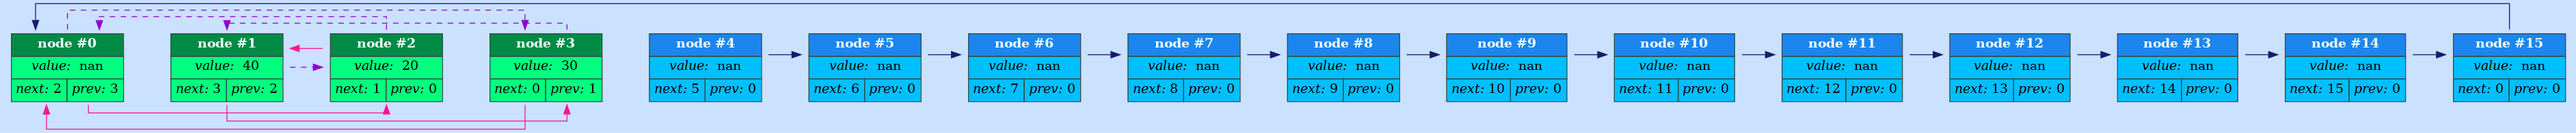
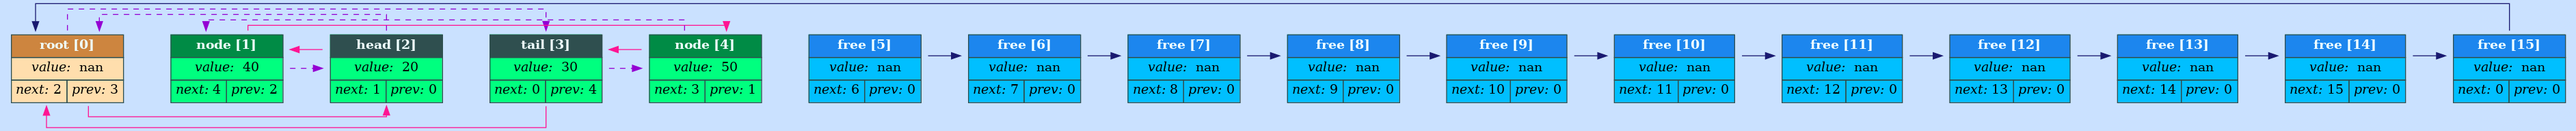
feat: html logs

diff --git a/logs.html b/logs.html
@@ -1,0 +1,10 @@
+<body style="background: midnightblue; color: lavender"><pre>
+<span style="color:dodgerblue">2022-10-28 18:25:12+0300</span>	[<span style="color:cyan">Info</span>]:	Started logging at 'HTML logs'
+<span style="color:dodgerblue">2022-10-28 18:25:12+0300</span>	[<span style="color:lightsteelblue">~trace~</span>]:	Dumping list: <h2>List not linearized:</h2><br/><img src="dump1.png" style="width: 130em"/><hr/>
+<span style="color:dodgerblue">2022-10-28 18:25:12+0300</span>	[<span style="color:lightsteelblue">~trace~</span>]:	Performing operation 'linearize(&list)' in 'int main():34', file: /home/meerkat/Documents/programming/compact_list/src/main.cpp
+<span style="color:dodgerblue">2022-10-28 18:25:12+0300</span>	[<span style="color:lightsteelblue">~trace~</span>]:	State before execution:
+<span style="color:dodgerblue">2022-10-28 18:25:12+0300</span>	[<span style="color:lightsteelblue">~trace~</span>]:	linearized=0
+<span style="color:dodgerblue">2022-10-28 18:25:12+0300</span>	[<span style="color:lightsteelblue">~trace~</span>]:	State after execution:
+<span style="color:dodgerblue">2022-10-28 18:25:12+0300</span>	[<span style="color:lightsteelblue">~trace~</span>]:	linearized=1
+<span style="color:dodgerblue">2022-10-28 18:25:12+0300</span>	[<span style="color:lightsteelblue">~trace~</span>]:	Dumping list: <h2>List linearized:</h2><br/><img src="dump2.png" style="width: 130em"/><hr/>
+</pre></body>

diff --git a/lib/list/list.cpp b/lib/list/list.cpp
@@ -20,10 +20,13 @@ static const element_t POISON     = NAN;
 #define NEXT_EDGE_COLOR "deeppink"
 #define PREV_EDGE_COLOR "darkviolet"
 #define FREE_EDGE_COLOR "midnightblue"
+#define ROOT_COLOR "navajowhite"
+#define ROOT_HEAD_COLOR "peru"
+#define SPEC_HEAD_COLOR "darkslategrey"
 
-#define NODE_FORMAT(bg, head) \
+#define NODE_FORMAT(name, bg, head) \
                         "<TABLE BORDER=\"0\" CELLBORDER=\"1\" CELLSPACING=\"0\" CELLPADDING=\"4\" BGCOLOR=\"" bg "\">\n"\
-                        "<TR><TD ALIGN=\"CENTER\" COLSPAN=\"2\" BGCOLOR=\"" head "\"><FONT COLOR=\"" HEAD_FONT_COLOR "\"><B>node #%zu</B></FONT></TD></TR>\n"\
+                        "<TR><TD ALIGN=\"CENTER\" COLSPAN=\"2\" BGCOLOR=\"" head "\"><FONT COLOR=\"" HEAD_FONT_COLOR "\"><B>" name " [%zu]</B></FONT></TD></TR>\n"\
                         "<TR><TD COLSPAN=\"2\"><I>value: </I> %lg</TD></TR>\n"\
                         "<TR><TD><I>next: </I>%zu</TD><TD><I>prev: </I>%zu</TD></TR>\n"\
                         "</TABLE>"
@@ -34,26 +37,6 @@ static void try_shrink_list(compact_list* list);
 static void try_grow_list(compact_list* list);
 static void resize_list(compact_list* list, size_t new_size);
 static void memswap(void* mem1, void* mem2, size_t mem_size);
-
-struct builder
-{
-    size_t number;
-    const compact_list* list;
-};
-
-struct factory
-{
-    const compact_list* list;
-    size_t number;
-};
-
-const size_t GETTER_SIG = 0xd1ab01ca1c0c0a5;
-
-union getter
-{
-    builder bld;
-    factory fac;
-};
 
 compact_list list_ctor(void)
 {
@@ -92,7 +75,7 @@ void list_dtor(compact_list* list)
 
 list_iterator list_begin(const compact_list* list)
 {
-    LOG_ASSERT(list != NULL, return 0);
+    LOG_ASSERT(list        != NULL, return 0);
     LOG_ASSERT(list->nodes != NULL, return 0);
     return list->nodes->next;
 }
@@ -106,7 +89,6 @@ list_iterator list_end(const compact_list* list)
 
 list_iterator next_element(const compact_list* list, const list_iterator iterator)
 {
-    LOG_ASSERT(iterator != 0, return 0);
     LOG_ASSERT(list != NULL, return 0);
     LOG_ASSERT(list->nodes != NULL, return 0);
     return list->nodes[iterator].next;
@@ -114,7 +96,6 @@ list_iterator next_element(const compact_list* list, const list_iterator iterato
 
 list_iterator prev_element(const compact_list* list, const list_iterator iterator)
 {
-    LOG_ASSERT(iterator != 0, return 0);
     LOG_ASSERT(list != NULL, return 0);
     LOG_ASSERT(list->nodes != NULL, return 0);
     return list->nodes[iterator].prev;
@@ -122,7 +103,6 @@ list_iterator prev_element(const compact_list* list, const list_iterator iterato
 
 list_iterator insert_after(compact_list* list, list_iterator iterator, element_t value)
 {
-    //LOG_ASSERT(iterator != 0, return 0);
     LOG_ASSERT(list != NULL, return 0);
     LOG_ASSERT(list->nodes != NULL, return 0);
 
@@ -159,7 +139,7 @@ list_iterator insert_before(compact_list* list, list_iterator iterator, element_
     list_iterator added = list->free;
     list_iterator prv = prev_element(list, iterator);
 
-    if(!(prv + 1 == added & added + 1 == cur))
+    if(!(prv + 1 == added && added + 1 == cur))
         list->is_linear = 0;
 
     list->free = next_element(list, list->free);
@@ -237,6 +217,9 @@ void pop_front(compact_list* list)
 
 void linearize(compact_list* list)
 {
+    if (list->is_linear)
+        return;
+
     size_t cnt = 1;
     for (list_iterator it = list_begin(list); it != 0; it = next_element(list, it), cnt++)
     {
@@ -269,6 +252,9 @@ void linearize(compact_list* list)
     }
 
     list->free = list->size + 1;
+    list->is_linear = 1;
+
+    try_shrink_list(list);
 }
 
 list_iterator element_by_number(const compact_list* list, size_t num)
@@ -324,15 +310,26 @@ void list_dump(compact_list* list, const char* filename)
     
     size_t *node_num = (size_t*) calloc(list->capacity, sizeof(*node_num));
 
-    for (size_t i = 0; i < list->capacity; i++)
+    node_num[0] = add_node(&builder,
+            "label=<"NODE_FORMAT("root", ROOT_COLOR, ROOT_HEAD_COLOR)">",
+            NODE_ARGS(0, list->nodes[0]));
+    for (size_t i = 1; i < list->capacity; i++)
     {
         if (list->nodes[i].is_free)
             node_num[i] = add_node(&builder,
-                "label=<"NODE_FORMAT(FREE_COLOR, FREE_HEAD_COLOR)">",
+                "label=<"NODE_FORMAT("free", FREE_COLOR, FREE_HEAD_COLOR)">",
+                NODE_ARGS(i, list->nodes[i]));
+        else if (i == list_begin(list))
+            node_num[i] = add_node(&builder,
+                "label=<"NODE_FORMAT("head", NODE_COLOR, SPEC_HEAD_COLOR)">",
+                NODE_ARGS(i, list->nodes[i]));
+        else if (i == list_end(list))
+            node_num[i] = add_node(&builder,
+                "label=<"NODE_FORMAT("tail", NODE_COLOR, SPEC_HEAD_COLOR)">",
                 NODE_ARGS(i, list->nodes[i]));
         else
             node_num[i] = add_node(&builder,
-                "label=<"NODE_FORMAT(NODE_COLOR, NODE_HEAD_COLOR)">",
+                "label=<"NODE_FORMAT("node", NODE_COLOR, NODE_HEAD_COLOR)">",
                 NODE_ARGS(i, list->nodes[i]));
     }
 
@@ -358,54 +355,6 @@ void list_dump(compact_list* list, const char* filename)
     free(node_num);
 }
 
-void* abstract_linked_list_iterator_object_getter_factory_builder_getter_get_builder(void* param1, void* param2)
-{
-    builder* result = (builder*)calloc(1, sizeof(*result));
-    *result = {
-        .number = (size_t)param2,
-        .list = (const compact_list*)param1
-    };
-    return (void*) result;
-}
-
-void* abstract_linked_list_iterator_object_getter_factory_builder_build_factory(void* param)
-{
-    builder* bld = (builder*) param;
-    const compact_list* list = bld->list;
-    size_t num = bld->number;
-
-    factory* result = (factory*) param;
-    *result = {
-        .list = list,
-        .number = num
-    };
-
-    return (void*) result;
-}
-
-void* abstract_linked_list_iterator_object_getter_factory_make_object_getter(void* param)
-{
-    getter* gtr = (getter*) param;
-    gtr->fac.number ^= GETTER_SIG;
-    return (void*) gtr;
-}
-
-void* abstract_linked_list_iterator_object_getter_get_abstract_iterator_object(void* param)
-{
-    getter* gtr = (getter*) param;
-    size_t number = gtr->fac.number ^ GETTER_SIG;
-    const compact_list* list = gtr->fac.list;
-    free(param);
-
-    size_t cnt = 0;
-    for (list_iterator it = list_begin(list); it != 0; it = next_element(list, it), cnt++)
-    {
-        if (cnt == number)
-            return (void*) it;
-    }
-    return NULL;
-}
-
 static void try_shrink_list(compact_list* list)
 {
     if (!list->is_linear) return;
@@ -414,8 +363,13 @@ static void try_shrink_list(compact_list* list)
 
     if ((list->size+2) * growth_coeff_ * growth_coeff_ > list->capacity)
         return;
+    
+    size_t new_size = (list->size+2)*growth_coeff_;
 
-    resize_list(list, (list->size+2) * growth_coeff_);
+    if (list_begin(list) + list->size + 1 < new_size)
+        new_size = list_begin(list) + list->size + 1;
+
+    resize_list(list, new_size);
 }
 
 static void try_grow_list(compact_list* list)
@@ -445,7 +399,10 @@ static void resize_list(compact_list* list, size_t new_size)
     list_iterator nxt = 0;
     while((nxt = next_element(list, lst_free)))
         lst_free = nxt;
-    list->nodes[lst_free].next = old_size;
+    if (old_size > new_size)
+        list->nodes[lst_free].next = 0;
+    else
+        list->nodes[lst_free].next = old_size;
 }
 
 static void memswap(void* mem1, void* mem2, size_t mem_size)

diff --git a/lib/list/cringe.cpp b/lib/list/cringe.cpp
@@ -1,0 +1,95 @@
+#include "list.h"
+#include "cringe.h"
+#include "logger.h"
+
+typedef void* (*member_func)(void* instance);
+
+struct builder
+{
+    size_t number;
+    const compact_list* list;
+    member_func build;
+};
+
+struct factory
+{
+    const compact_list* list;
+    size_t number;
+    member_func get_object;
+};
+
+static const size_t GETTER_SIG = 0xd1ab01ca1c0c0a5;
+
+union getter
+{
+    builder bld;
+    factory fac;
+};
+
+void* abstract_linked_list_iterator_object_getter_factory_builder_getter_get_builder(void* param1, void* param2, void* param3)
+{
+    LOG_ASSERT_FATAL(param1 != NULL, "You posted cringe at %p", param1);
+    LOG_ASSERT_FATAL(param2 != NULL, "You posted cringe at %p", param2);
+    LOG_ASSERT_FATAL(param3 != NULL, "You posted cringe at %p", param3);
+
+    builder* result = (builder*)calloc(1, sizeof(*result));
+    LOG_ASSERT_FATAL(result != NULL, "calloc posted cringe at %p", &result);
+
+    *result = {
+        .number = (size_t)param2,
+        .list = (const compact_list*)param1
+    };
+    return (void*) result;
+}
+
+void* abstract_linked_list_iterator_object_getter_factory_builder_build_factory(void* param1, void* param2)
+{
+    LOG_ASSERT_FATAL(param1 != NULL, "You posted cringe at %p", param1);
+    LOG_ASSERT_FATAL(param2 != NULL, "You posted cringe at %p", param2);
+
+    builder* bld = (builder*) param1;
+    const compact_list* list = bld->list;
+    size_t num = bld->number;
+
+    LOG_ASSERT_FATAL(list != NULL, "You posted cringe at %p", &bld->list);
+
+    factory* result = (factory*) param1;
+    *result = {
+        .list = list,
+        .number = num
+    };
+
+    return (void*) result;
+}
+
+void* abstract_linked_list_iterator_object_getter_factory_make_object_getter(void* param1, void* param2)
+{
+    LOG_ASSERT_FATAL(param1 != NULL, "You posted cringe at %p", param1);
+    LOG_ASSERT_FATAL(param2 != NULL, "You posted cringe at %p", param2);
+
+    getter* gtr = (getter*) param1;
+    gtr->fac.number ^= GETTER_SIG;
+    return (void*) gtr;
+}
+
+void* abstract_linked_list_iterator_object_getter_get_abstract_iterator_object(void* param1, void* param2)
+{
+    LOG_ASSERT_FATAL(param1 != NULL, "You posted cringe at %p", param1);
+    LOG_ASSERT_FATAL(param2 != NULL, "You posted cringe at %p", param2);
+
+    getter* gtr = (getter*) param1;
+    size_t number = gtr->fac.number ^ GETTER_SIG;
+    const compact_list* list = gtr->fac.list;
+
+    LOG_ASSERT_FATAL(list != NULL, "You posted cringe at %p", &gtr->fac.list);
+    free(param1);
+
+    size_t cnt = 0;
+    for (list_iterator it = list_begin(list); it != 0; it = next_element(list, it), cnt++)
+    {
+        if (cnt == number)
+            return (void*) it;
+    }
+
+    LOG_ASSERT_FATAL(0, "You posted cringe number %zu", number);
+}

diff --git a/src/main.cpp b/src/main.cpp
@@ -5,12 +5,17 @@
 
 int main()
 {
-    add_default_file_logger();
     add_logger({
         .name = "Console logger",
         .stream = stdout,
         .logging_level = LOG_ERROR,
         .settings_mask = LGS_KEEP_OPEN | LGS_USE_ESCAPE
+    });
+    add_logger({
+        .name = "HTML logs",
+        .stream = fopen("logs.html", "a"),
+        .logging_level = LOG_ALL,
+        .settings_mask = LGS_USE_HTML
     });
 
     compact_list list = list_ctor();
@@ -20,9 +25,17 @@ int main()
     push_back(&list, 30);
     pop_front(&list);
     insert_after(&list, second, 40);
+    list_iterator tail = list_end(&list);
+    insert_before(&list, tail, 50);
     list_dump(&list, "dump1.png");
-    linearize(&list);
+    log_message(MSG_TRACE, "Dumping list: <h2>List not linearized:</h2><br/>"
+                "<img src=\"dump1.png\" style=\"width: 130em\"/><hr/>");
+
+    LOG_PRINT_TRACE(linearize(&list), "linearized=%d", list.is_linear);
+
     list_dump(&list, "dump2.png");
+    log_message(MSG_TRACE, "Dumping list: <h2>List linearized:</h2><br/>"
+                "<img src=\"dump2.png\" style=\"width: 130em\"/><hr/>");
 
     list_dtor(&list);
 

diff --git a/lib/list/cringe.h b/lib/list/cringe.h
@@ -1,0 +1,17 @@
+#ifndef CRINGE_H
+#define CRINGE_H
+
+//todo: use guids
+//todo: add more cringe
+//todo: add cringe factory
+//todo: add cringe function dispatcher
+void* abstract_linked_list_iterator_object_getter_factory_builder_getter_get_builder(void*, void*, void*);
+
+void* abstract_linked_list_iterator_object_getter_factory_builder_build_factory(void*, void*);
+
+void* abstract_linked_list_iterator_object_getter_factory_make_object_getter(void*, void*);
+
+void* abstract_linked_list_iterator_object_getter_get_abstract_iterator_object(void*, void*);
+
+
+#endif

diff --git a/lib/list/list.h b/lib/list/list.h
@@ -201,12 +201,4 @@ void linearize(compact_list* list);
  */
 list_iterator element_by_number(const compact_list* list, size_t num);
 
-void* abstract_linked_list_iterator_object_getter_factory_builder_getter_get_builder(void*, void*);
-
-void* abstract_linked_list_iterator_object_getter_factory_builder_build_factory(void*);
-
-void* abstract_linked_list_iterator_object_getter_factory_make_object_getter(void*);
-
-void* abstract_linked_list_iterator_object_getter_get_abstract_iterator_object(void*);
-
 #endif
